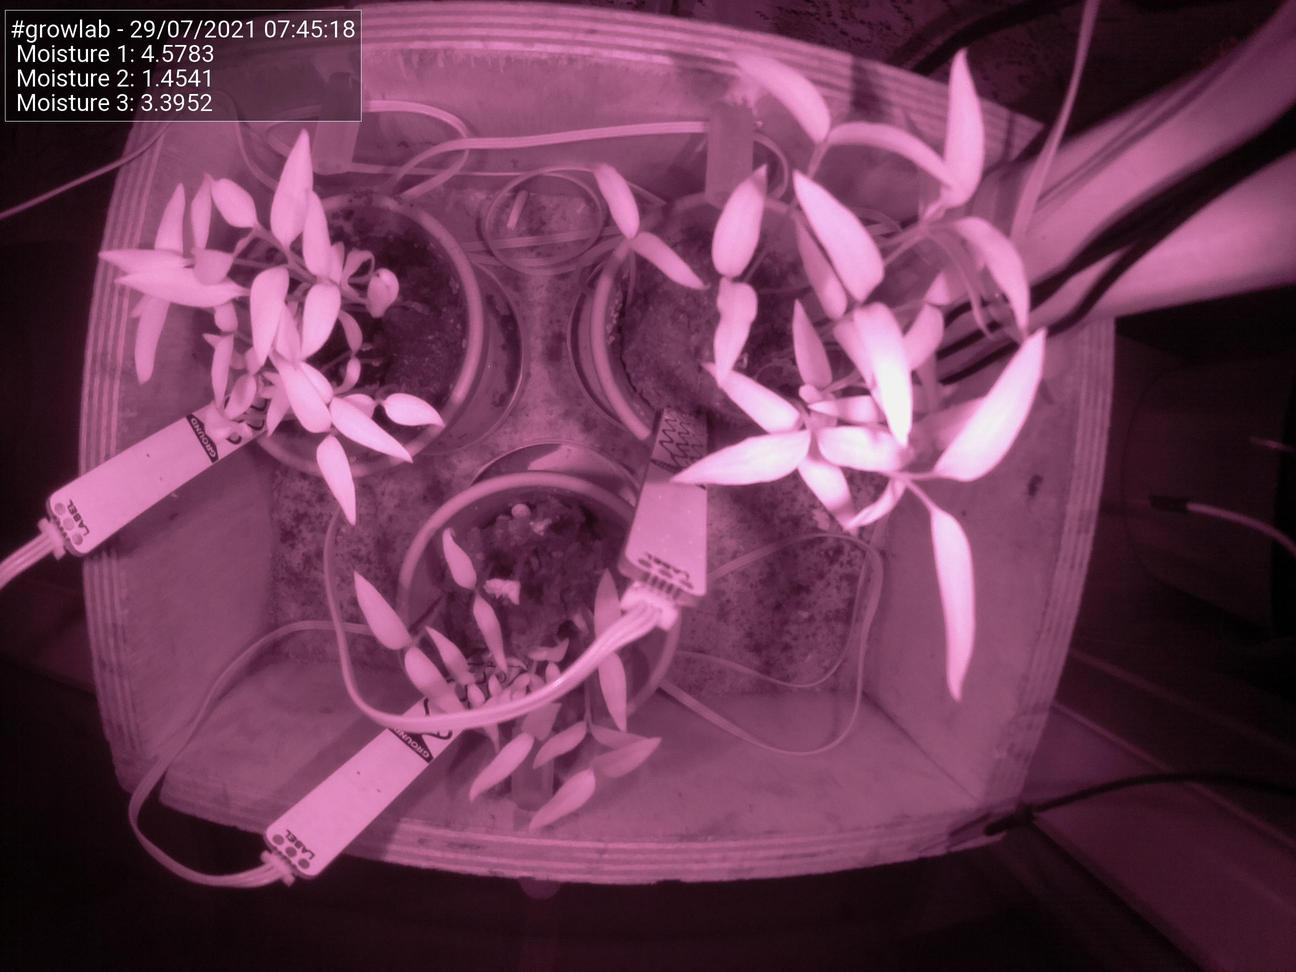
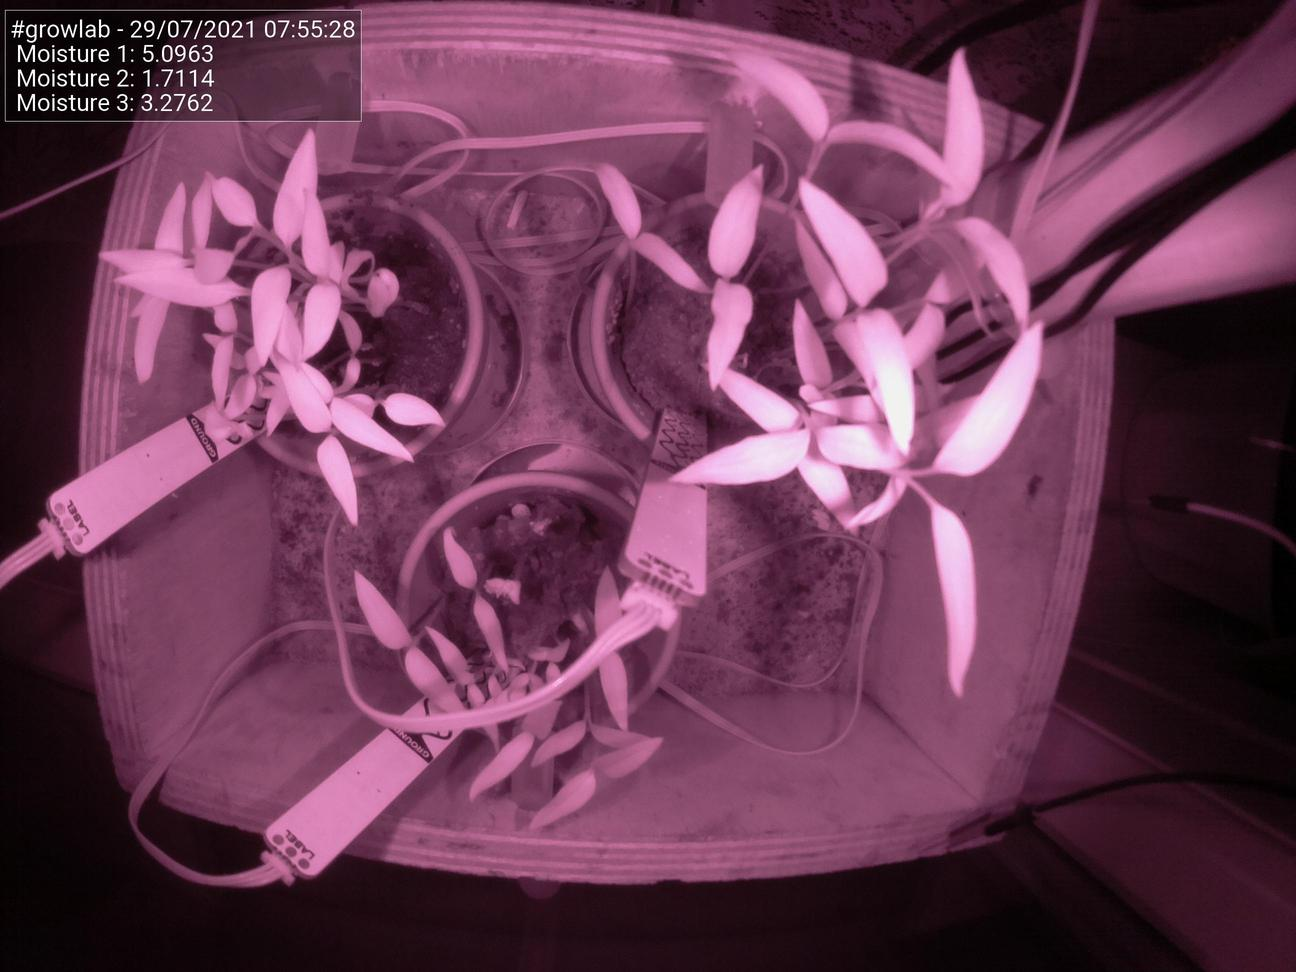
Update images at Thu 29 Jul 07:55:34 BST 2021

diff --git a/docs/index.html b/docs/index.html
@@ -51,25 +51,25 @@
                                 <td>Date</td>
                                 <td>29/07/2021</td>
                                 <td>Time</td>
-                                <td>07:45:18</td>
+                                <td>07:55:28</td>
                             </tr>
                             <tr>
                                 <td>Temperature</td>
                                 <td>N/A</td>
                                 <td>Moisture 1</td>
-                                <td>4.5783</td>
+                                <td>5.0963</td>
                             </tr>
                             <tr>
                                 <td>Humidity</td>
                                 <td>N/A</td>
                                 <td>Moisture 2</td>
-                                <td>1.4541</td>
+                                <td>1.7114</td>
                             </tr>
                             <tr>
                                 <td>Pressure</td>
                                 <td>N/A</td>
                                 <td>Moisture 3</td>
-                                <td>3.3952</td>
+                                <td>3.2762</td>
                             </tr>
                         </tbody>
                     </table>
@@ -77,7 +77,7 @@
 
                 <h5>Latest image</h5>
                 <div style="width: 85%;">
-                            <img class="figure-img img-fluid rounded" src="./preview.jpg?uid=1627541123.9268906">
+                            <img class="figure-img img-fluid rounded" src="./preview.jpg?uid=1627541733.9195254">
                 </div>
             </div>
         </div>
